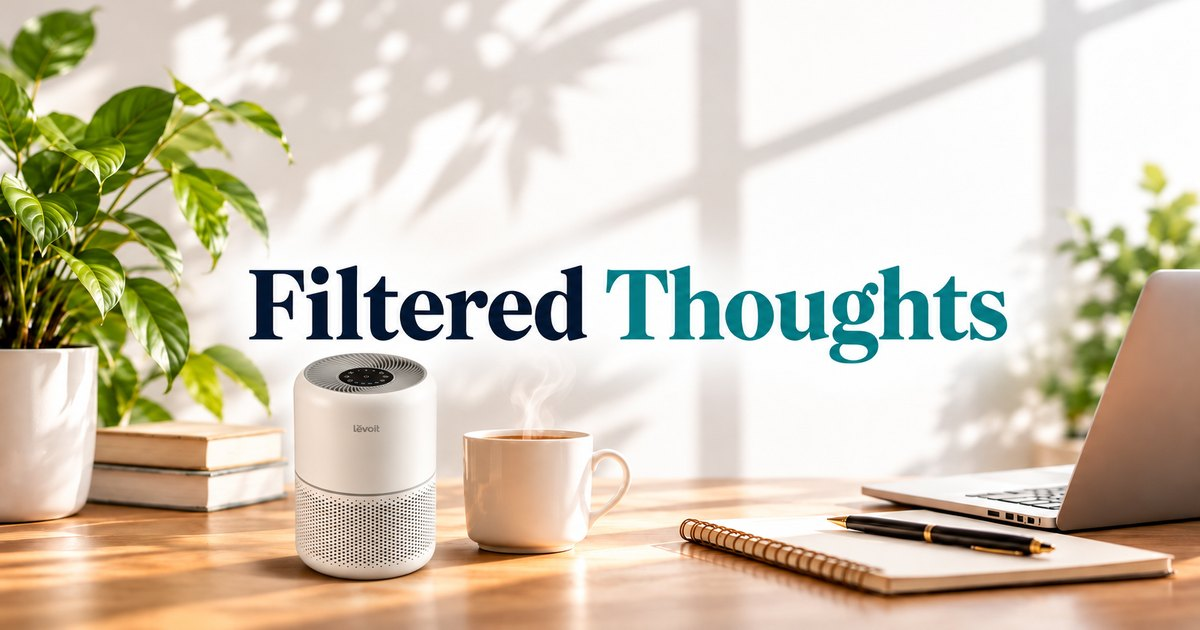
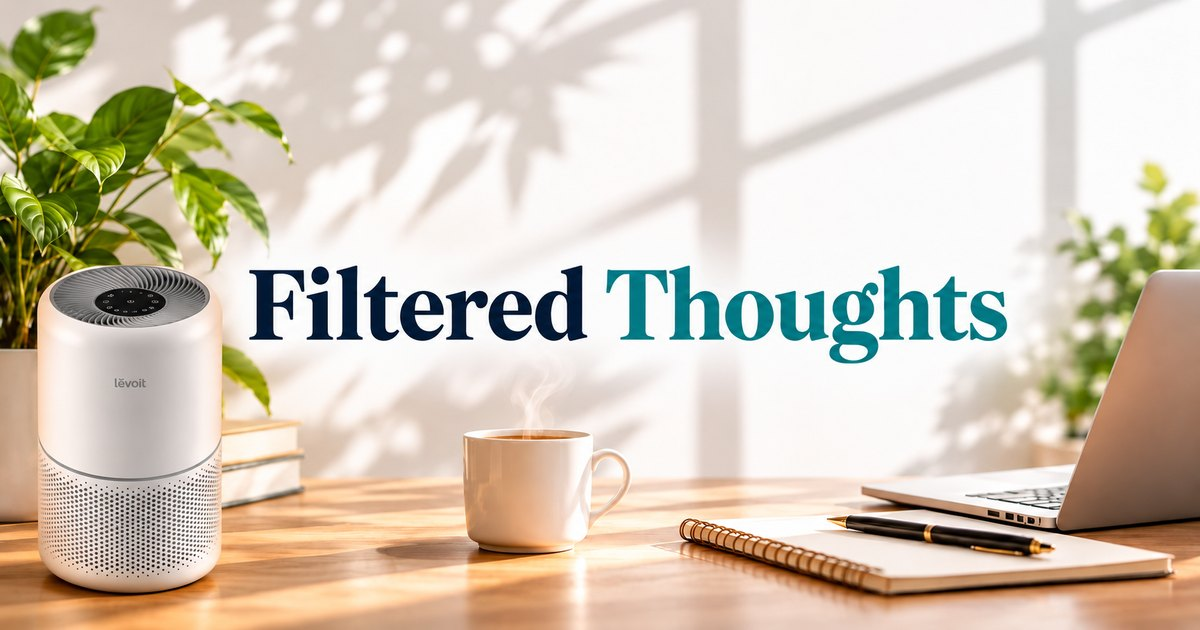
Use larger purifier in Black Friday preview artwork

diff --git a/posts/black-friday-air-purifier-deals-2026.html b/posts/black-friday-air-purifier-deals-2026.html
@@ -11,12 +11,12 @@
 <meta property="og:description" content="Shopping Black Friday air purifier deals? Compare three Levoit models by room size, airflow, and replacement filter cost before you buy.">
 <meta property="og:url" content="https://filteredthoughts.nedwebservices.com/posts/black-friday-air-purifier-deals-2026.html">
 <meta property="og:type" content="article">
-<meta property="og:image" content="https://filteredthoughts.nedwebservices.com/images/black-friday-air-purifier-preview.jpg">
+<meta property="og:image" content="https://filteredthoughts.nedwebservices.com/images/black-friday-air-purifier-preview.jpg?v=2">
 <meta property="og:image:width" content="1200">
 <meta property="og:image:height" content="630">
-<meta property="og:image:alt" content="A white Levoit air purifier beside a coffee mug on the Filtered Thoughts desk">
+<meta property="og:image:alt" content="A large white Levoit air purifier at the left end of the Filtered Thoughts desk">
 <meta name="twitter:card" content="summary_large_image">
-<meta name="twitter:image" content="https://filteredthoughts.nedwebservices.com/images/black-friday-air-purifier-preview.jpg">
+<meta name="twitter:image" content="https://filteredthoughts.nedwebservices.com/images/black-friday-air-purifier-preview.jpg?v=2">
 <link rel="preconnect" href="https://fonts.googleapis.com">
 <link rel="preconnect" href="https://fonts.gstatic.com" crossorigin>
 <link href="https://fonts.googleapis.com/css2?family=Fraunces:opsz,wght@9..144,600;9..144,700&family=Inter:wght@400;600&display=swap" rel="stylesheet">
@@ -33,7 +33,7 @@
 .purifier-grid .filter-cost { margin-top: 8px; }
 .article .note { font-size: .9rem; color: var(--muted); }
 </style>
-<script type="application/ld+json">{"@context": "https://schema.org", "@type": "BlogPosting", "headline": "Black Friday Air Purifier Deals 2026: What to Check Before You Buy", "description": "Shopping Black Friday air purifier deals? Compare three Levoit models by room size, airflow, and replacement filter cost before you buy.", "datePublished": "2026-11-06", "dateModified": "2026-11-06", "author": {"@type": "Person", "name": "Nedu", "url": "https://filteredthoughts.nedwebservices.com/about.html"}, "publisher": {"@type": "Organization", "name": "Filtered Thoughts"}, "mainEntityOfPage": "https://filteredthoughts.nedwebservices.com/posts/black-friday-air-purifier-deals-2026.html", "image": "https://filteredthoughts.nedwebservices.com/images/black-friday-air-purifier-preview.jpg"}</script>
+<script type="application/ld+json">{"@context": "https://schema.org", "@type": "BlogPosting", "headline": "Black Friday Air Purifier Deals 2026: What to Check Before You Buy", "description": "Shopping Black Friday air purifier deals? Compare three Levoit models by room size, airflow, and replacement filter cost before you buy.", "datePublished": "2026-11-06", "dateModified": "2026-11-06", "author": {"@type": "Person", "name": "Nedu", "url": "https://filteredthoughts.nedwebservices.com/about.html"}, "publisher": {"@type": "Organization", "name": "Filtered Thoughts"}, "mainEntityOfPage": "https://filteredthoughts.nedwebservices.com/posts/black-friday-air-purifier-deals-2026.html", "image": "https://filteredthoughts.nedwebservices.com/images/black-friday-air-purifier-preview.jpg?v=2"}</script>
 </head>
 <body>
 <header class="site-header">

diff --git a/index.html b/index.html
@@ -42,7 +42,7 @@
   <h2 class="section-title">Latest posts</h2>
   <div class="cards">
     <article class="card">
-      <a class="card-link" href="posts/black-friday-air-purifier-deals-2026.html" data-slide-image="images/black-friday-air-purifier-preview.jpg">
+      <a class="card-link" href="posts/black-friday-air-purifier-deals-2026.html" data-slide-image="images/black-friday-air-purifier-preview.jpg?v=2">
       <div class="meta">Home Care &middot; November 6, 2026</div>
       <h3>Black Friday Air Purifier Deals 2026: What to Check Before You Buy</h3>
       <p>Shopping Black Friday air purifier deals? Compare three Levoit models by room size, airflow, and replacement filter cost before you buy.</p>

diff --git a/category/home-and-air.html b/category/home-and-air.html
@@ -36,7 +36,7 @@
 <section class="wrap">
   <div class="cards">
     <article class="card">
-      <a class="card-link" href="../posts/black-friday-air-purifier-deals-2026.html" data-slide-image="../images/black-friday-air-purifier-preview.jpg">
+      <a class="card-link" href="../posts/black-friday-air-purifier-deals-2026.html" data-slide-image="../images/black-friday-air-purifier-preview.jpg?v=2">
       <div class="meta">Home Care &middot; November 6, 2026</div>
       <h3>Black Friday Air Purifier Deals 2026: What to Check Before You Buy</h3>
       <p>Shopping Black Friday air purifier deals? Compare three Levoit models by room size, airflow, and replacement filter cost before you buy.</p>
